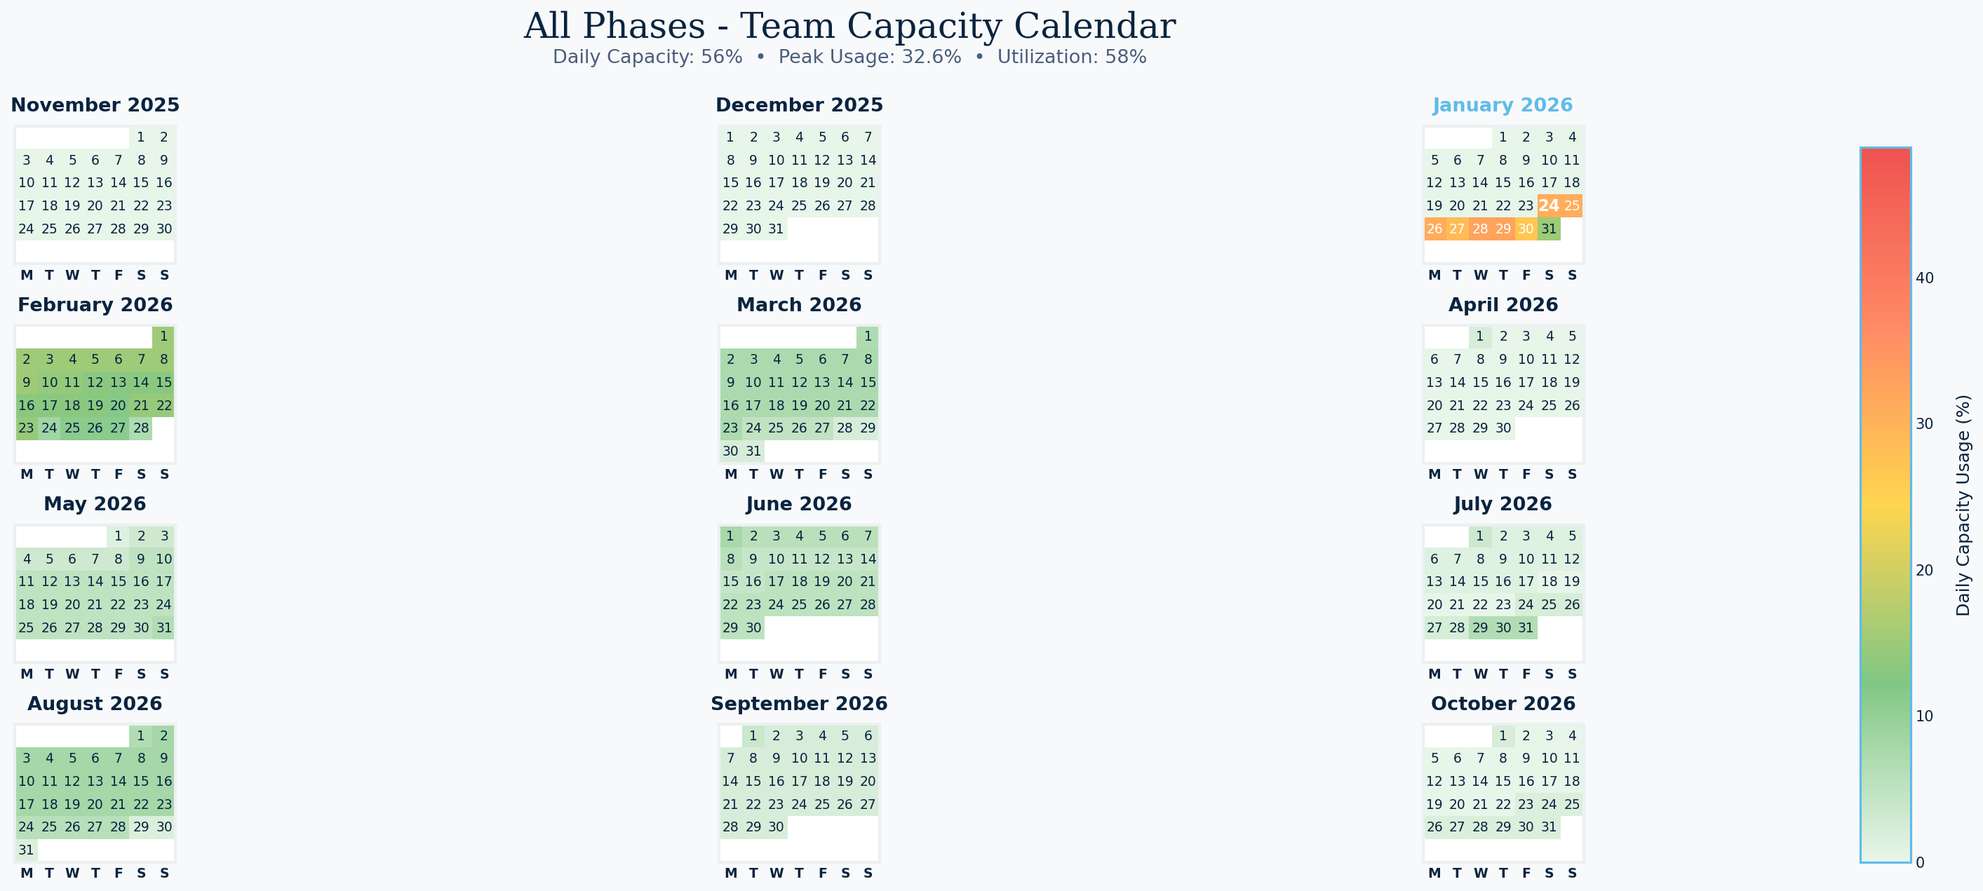
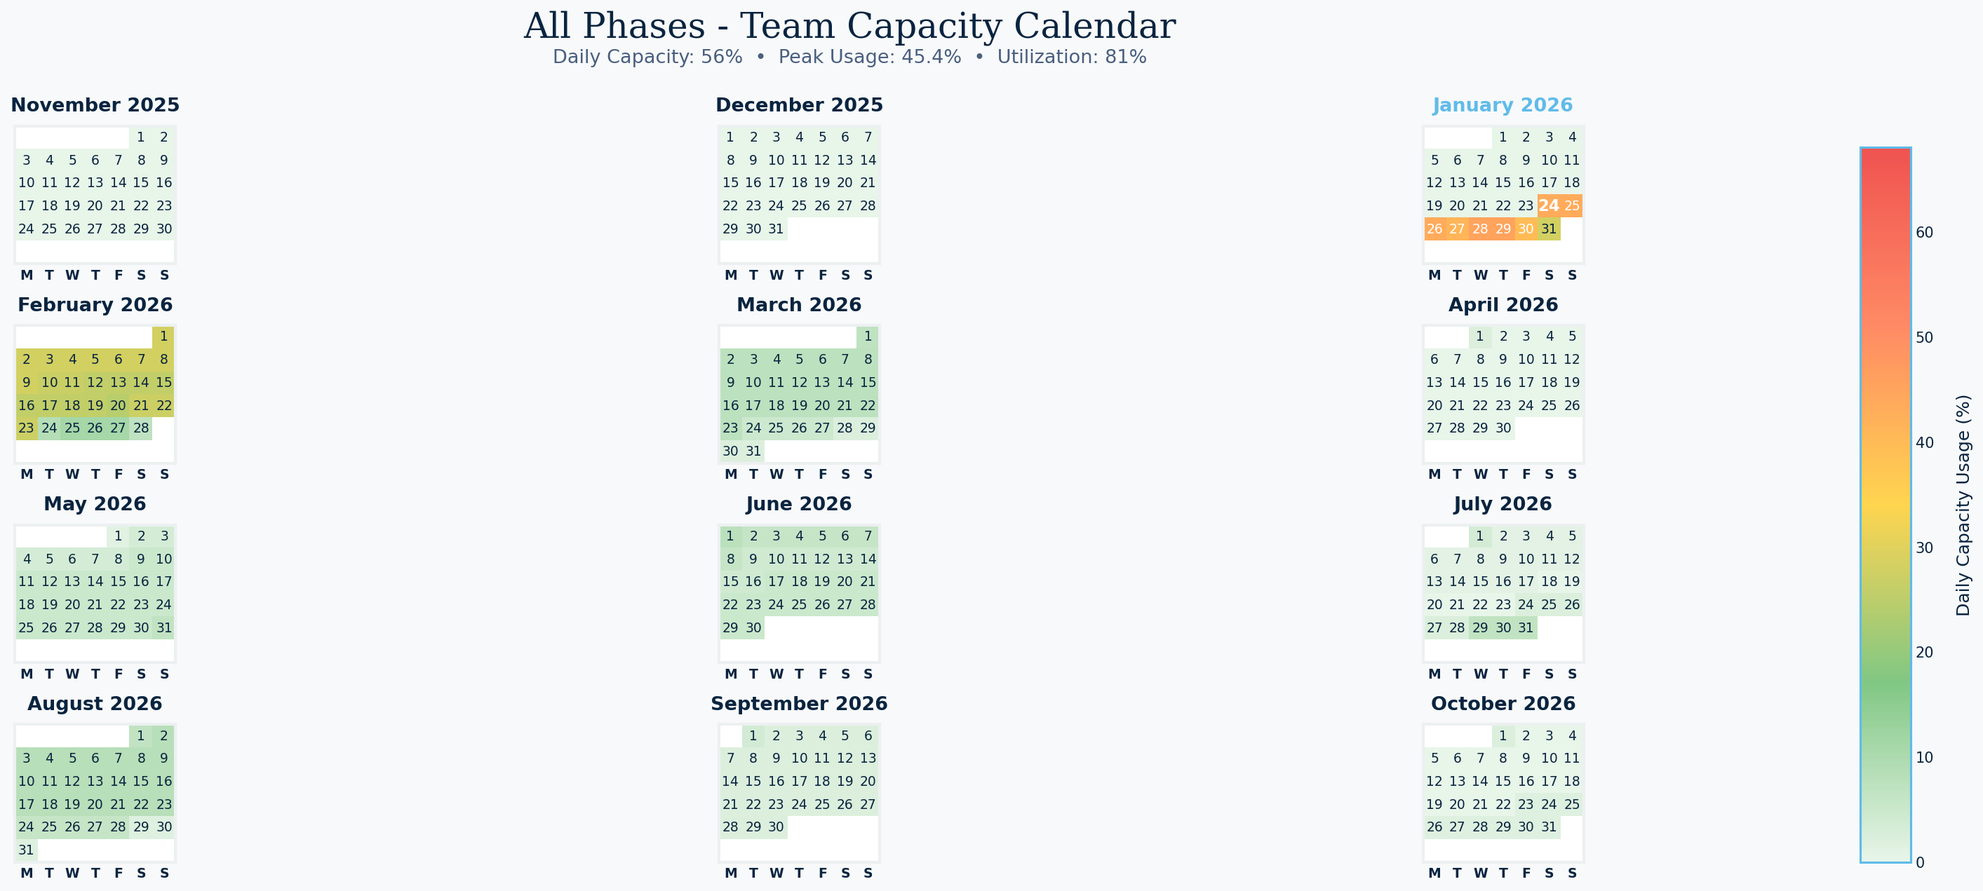
Update dashboard with latest data
🤖 Generated with [Claude Code](https://claude.com/claude-code)

Changed region(s): [[0.0, 0.3682, 0.0934, 0.5216], [0.7782, 0.2455, 0.8093, 0.2762]]

diff --git a/Reports/capacity_dashboard.html b/Reports/capacity_dashboard.html
@@ -978,7 +978,7 @@
         <div class="header">
             <h1>Perimeter Studio Dashboard</h1>
             <div class="subtitle">Video Production Capacity Tracking & Performance Metrics</div>
-            <div class="timestamp">Last Updated: January 24, 2026 at 02:15 PM</div>
+            <div class="timestamp">Last Updated: January 24, 2026 at 02:30 PM</div>
         </div>
 
         <div class="grid">
@@ -1014,10 +1014,10 @@
 
                     <div class="team-member">
                         <div class="team-member-name">Zach Welliver</div>
-                        <div class="team-member-capacity">70% / 50% capacity</div>
+                        <div class="team-member-capacity">134% / 50% capacity</div>
                         <div class="progress-bar">
                             <div class="progress-fill over-capacity" style="width: 100%">
-                                140%
+                                268%
                             </div>
                         </div>
                     </div>
@@ -1425,24 +1425,24 @@
                 <!-- Timeline bars -->
                 <div style="display: flex; gap: 3px; height: 60px; align-items: flex-end;">
     
-                    <div style="flex: 1; background: #fd7e14; height: 70.50510204081633%; border-radius: 4px 4px 0 0; position: relative; min-width: 8px; cursor: pointer;"
-                         title="Week 1 (2026-01-24): 54% capacity, 22 tasks">
+                    <div style="flex: 1; background: #fd7e14; height: 100%; border-radius: 4px 4px 0 0; position: relative; min-width: 8px; cursor: pointer;"
+                         title="Week 1 (2026-01-24): 77% capacity, 22 tasks">
                     </div>
         
-                    <div style="flex: 1; background: #28a745; height: 35.285714285714285%; border-radius: 4px 4px 0 0; position: relative; min-width: 8px; cursor: pointer;"
-                         title="Week 2 (2026-01-31): 27% capacity, 16 tasks">
+                    <div style="flex: 1; background: #ffc107; height: 65.0%; border-radius: 4px 4px 0 0; position: relative; min-width: 8px; cursor: pointer;"
+                         title="Week 2 (2026-01-31): 50% capacity, 16 tasks">
                     </div>
         
-                    <div style="flex: 1; background: #28a745; height: 33.29591836734694%; border-radius: 4px 4px 0 0; position: relative; min-width: 8px; cursor: pointer;"
-                         title="Week 3 (2026-02-07): 26% capacity, 16 tasks">
+                    <div style="flex: 1; background: #ffc107; height: 62.08163265306123%; border-radius: 4px 4px 0 0; position: relative; min-width: 8px; cursor: pointer;"
+                         title="Week 3 (2026-02-07): 48% capacity, 16 tasks">
                     </div>
         
-                    <div style="flex: 1; background: #28a745; height: 30.17857142857143%; border-radius: 4px 4px 0 0; position: relative; min-width: 8px; cursor: pointer;"
-                         title="Week 4 (2026-02-14): 23% capacity, 14 tasks">
+                    <div style="flex: 1; background: #ffc107; height: 56.64285714285714%; border-radius: 4px 4px 0 0; position: relative; min-width: 8px; cursor: pointer;"
+                         title="Week 4 (2026-02-14): 44% capacity, 13 tasks">
                     </div>
         
-                    <div style="flex: 1; background: #28a745; height: 28.056122448979593%; border-radius: 4px 4px 0 0; position: relative; min-width: 8px; cursor: pointer;"
-                         title="Week 5 (2026-02-21): 22% capacity, 15 tasks">
+                    <div style="flex: 1; background: #28a745; height: 39.39795918367348%; border-radius: 4px 4px 0 0; position: relative; min-width: 8px; cursor: pointer;"
+                         title="Week 5 (2026-02-21): 30% capacity, 14 tasks">
                     </div>
         
                     <div style="flex: 1; background: #28a745; height: 16.448979591836736%; border-radius: 4px 4px 0 0; position: relative; min-width: 8px; cursor: pointer;"
@@ -1609,154 +1609,154 @@
             </div>
             <div class="heatmap-grid">
     
-                <div style="background: #fd7e14; color: white; padding: 8px; border-radius: 4px; text-align: center; font-size: 11px;" title="2026-01-24: 55.0% capacity">
+                <div style="background: #fd7e14; color: white; padding: 8px; border-radius: 4px; text-align: center; font-size: 11px;" title="2026-01-24: 77.9% capacity">
                     <div style="font-weight: bold;">01/24</div>
-                    <div style="font-size: 9px; margin-top: 2px;">55%</div>
+                    <div style="font-size: 9px; margin-top: 2px;">78%</div>
                 </div>
         
-                <div style="background: #fd7e14; color: white; padding: 8px; border-radius: 4px; text-align: center; font-size: 11px;" title="2026-01-25: 55.0% capacity">
+                <div style="background: #fd7e14; color: white; padding: 8px; border-radius: 4px; text-align: center; font-size: 11px;" title="2026-01-25: 77.9% capacity">
                     <div style="font-weight: bold;">01/25</div>
-                    <div style="font-size: 9px; margin-top: 2px;">55%</div>
+                    <div style="font-size: 9px; margin-top: 2px;">78%</div>
                 </div>
         
-                <div style="background: #fd7e14; color: white; padding: 8px; border-radius: 4px; text-align: center; font-size: 11px;" title="2026-01-26: 55.0% capacity">
+                <div style="background: #fd7e14; color: white; padding: 8px; border-radius: 4px; text-align: center; font-size: 11px;" title="2026-01-26: 77.9% capacity">
                     <div style="font-weight: bold;">01/26</div>
-                    <div style="font-size: 9px; margin-top: 2px;">55%</div>
+                    <div style="font-size: 9px; margin-top: 2px;">78%</div>
                 </div>
         
-                <div style="background: #ffc107; color: white; padding: 8px; border-radius: 4px; text-align: center; font-size: 11px;" title="2026-01-27: 50.7% capacity">
+                <div style="background: #fd7e14; color: white; padding: 8px; border-radius: 4px; text-align: center; font-size: 11px;" title="2026-01-27: 73.6% capacity">
                     <div style="font-weight: bold;">01/27</div>
-                    <div style="font-size: 9px; margin-top: 2px;">51%</div>
+                    <div style="font-size: 9px; margin-top: 2px;">74%</div>
                 </div>
         
-                <div style="background: #fd7e14; color: white; padding: 8px; border-radius: 4px; text-align: center; font-size: 11px;" title="2026-01-28: 58.2% capacity">
+                <div style="background: #fd7e14; color: white; padding: 8px; border-radius: 4px; text-align: center; font-size: 11px;" title="2026-01-28: 81.1% capacity">
                     <div style="font-weight: bold;">01/28</div>
-                    <div style="font-size: 9px; margin-top: 2px;">58%</div>
+                    <div style="font-size: 9px; margin-top: 2px;">81%</div>
                 </div>
         
-                <div style="background: #fd7e14; color: white; padding: 8px; border-radius: 4px; text-align: center; font-size: 11px;" title="2026-01-29: 58.2% capacity">
+                <div style="background: #fd7e14; color: white; padding: 8px; border-radius: 4px; text-align: center; font-size: 11px;" title="2026-01-29: 81.1% capacity">
                     <div style="font-weight: bold;">01/29</div>
-                    <div style="font-size: 9px; margin-top: 2px;">58%</div>
+                    <div style="font-size: 9px; margin-top: 2px;">81%</div>
                 </div>
         
-                <div style="background: #ffc107; color: white; padding: 8px; border-radius: 4px; text-align: center; font-size: 11px;" title="2026-01-30: 47.5% capacity">
+                <div style="background: #ffc107; color: white; padding: 8px; border-radius: 4px; text-align: center; font-size: 11px;" title="2026-01-30: 70.4% capacity">
                     <div style="font-weight: bold;">01/30</div>
+                    <div style="font-size: 9px; margin-top: 2px;">70%</div>
+                </div>
+        
+                <div style="background: #ffc107; color: white; padding: 8px; border-radius: 4px; text-align: center; font-size: 11px;" title="2026-01-31: 50.0% capacity">
+                    <div style="font-weight: bold;">01/31</div>
+                    <div style="font-size: 9px; margin-top: 2px;">50%</div>
+                </div>
+        
+                <div style="background: #ffc107; color: white; padding: 8px; border-radius: 4px; text-align: center; font-size: 11px;" title="2026-02-01: 50.0% capacity">
+                    <div style="font-weight: bold;">02/01</div>
+                    <div style="font-size: 9px; margin-top: 2px;">50%</div>
+                </div>
+        
+                <div style="background: #ffc107; color: white; padding: 8px; border-radius: 4px; text-align: center; font-size: 11px;" title="2026-02-02: 50.0% capacity">
+                    <div style="font-weight: bold;">02/02</div>
+                    <div style="font-size: 9px; margin-top: 2px;">50%</div>
+                </div>
+        
+                <div style="background: #ffc107; color: white; padding: 8px; border-radius: 4px; text-align: center; font-size: 11px;" title="2026-02-03: 50.0% capacity">
+                    <div style="font-weight: bold;">02/03</div>
+                    <div style="font-size: 9px; margin-top: 2px;">50%</div>
+                </div>
+        
+                <div style="background: #ffc107; color: white; padding: 8px; border-radius: 4px; text-align: center; font-size: 11px;" title="2026-02-04: 50.0% capacity">
+                    <div style="font-weight: bold;">02/04</div>
+                    <div style="font-size: 9px; margin-top: 2px;">50%</div>
+                </div>
+        
+                <div style="background: #ffc107; color: white; padding: 8px; border-radius: 4px; text-align: center; font-size: 11px;" title="2026-02-05: 50.0% capacity">
+                    <div style="font-weight: bold;">02/05</div>
+                    <div style="font-size: 9px; margin-top: 2px;">50%</div>
+                </div>
+        
+                <div style="background: #ffc107; color: white; padding: 8px; border-radius: 4px; text-align: center; font-size: 11px;" title="2026-02-06: 50.0% capacity">
+                    <div style="font-weight: bold;">02/06</div>
+                    <div style="font-size: 9px; margin-top: 2px;">50%</div>
+                </div>
+        
+                <div style="background: #ffc107; color: white; padding: 8px; border-radius: 4px; text-align: center; font-size: 11px;" title="2026-02-07: 50.0% capacity">
+                    <div style="font-weight: bold;">02/07</div>
+                    <div style="font-size: 9px; margin-top: 2px;">50%</div>
+                </div>
+        
+                <div style="background: #ffc107; color: white; padding: 8px; border-radius: 4px; text-align: center; font-size: 11px;" title="2026-02-08: 50.0% capacity">
+                    <div style="font-weight: bold;">02/08</div>
+                    <div style="font-size: 9px; margin-top: 2px;">50%</div>
+                </div>
+        
+                <div style="background: #ffc107; color: white; padding: 8px; border-radius: 4px; text-align: center; font-size: 11px;" title="2026-02-09: 50.0% capacity">
+                    <div style="font-weight: bold;">02/09</div>
+                    <div style="font-size: 9px; margin-top: 2px;">50%</div>
+                </div>
+        
+                <div style="background: #ffc107; color: white; padding: 8px; border-radius: 4px; text-align: center; font-size: 11px;" title="2026-02-10: 48.2% capacity">
+                    <div style="font-weight: bold;">02/10</div>
                     <div style="font-size: 9px; margin-top: 2px;">48%</div>
                 </div>
         
-                <div style="background: #28a745; color: white; padding: 8px; border-radius: 4px; text-align: center; font-size: 11px;" title="2026-01-31: 27.1% capacity">
-                    <div style="font-weight: bold;">01/31</div>
-                    <div style="font-size: 9px; margin-top: 2px;">27%</div>
-                </div>
-        
-                <div style="background: #28a745; color: white; padding: 8px; border-radius: 4px; text-align: center; font-size: 11px;" title="2026-02-01: 27.1% capacity">
-                    <div style="font-weight: bold;">02/01</div>
-                    <div style="font-size: 9px; margin-top: 2px;">27%</div>
-                </div>
-        
-                <div style="background: #28a745; color: white; padding: 8px; border-radius: 4px; text-align: center; font-size: 11px;" title="2026-02-02: 27.1% capacity">
-                    <div style="font-weight: bold;">02/02</div>
-                    <div style="font-size: 9px; margin-top: 2px;">27%</div>
-                </div>
-        
-                <div style="background: #28a745; color: white; padding: 8px; border-radius: 4px; text-align: center; font-size: 11px;" title="2026-02-03: 27.1% capacity">
-                    <div style="font-weight: bold;">02/03</div>
-                    <div style="font-size: 9px; margin-top: 2px;">27%</div>
-                </div>
-        
-                <div style="background: #28a745; color: white; padding: 8px; border-radius: 4px; text-align: center; font-size: 11px;" title="2026-02-04: 27.1% capacity">
-                    <div style="font-weight: bold;">02/04</div>
-                    <div style="font-size: 9px; margin-top: 2px;">27%</div>
-                </div>
-        
-                <div style="background: #28a745; color: white; padding: 8px; border-radius: 4px; text-align: center; font-size: 11px;" title="2026-02-05: 27.1% capacity">
-                    <div style="font-weight: bold;">02/05</div>
-                    <div style="font-size: 9px; margin-top: 2px;">27%</div>
-                </div>
-        
-                <div style="background: #28a745; color: white; padding: 8px; border-radius: 4px; text-align: center; font-size: 11px;" title="2026-02-06: 27.1% capacity">
-                    <div style="font-weight: bold;">02/06</div>
-                    <div style="font-size: 9px; margin-top: 2px;">27%</div>
-                </div>
-        
-                <div style="background: #28a745; color: white; padding: 8px; border-radius: 4px; text-align: center; font-size: 11px;" title="2026-02-07: 27.1% capacity">
-                    <div style="font-weight: bold;">02/07</div>
-                    <div style="font-size: 9px; margin-top: 2px;">27%</div>
-                </div>
-        
-                <div style="background: #28a745; color: white; padding: 8px; border-radius: 4px; text-align: center; font-size: 11px;" title="2026-02-08: 27.1% capacity">
-                    <div style="font-weight: bold;">02/08</div>
-                    <div style="font-size: 9px; margin-top: 2px;">27%</div>
-                </div>
-        
-                <div style="background: #28a745; color: white; padding: 8px; border-radius: 4px; text-align: center; font-size: 11px;" title="2026-02-09: 27.1% capacity">
-                    <div style="font-weight: bold;">02/09</div>
-                    <div style="font-size: 9px; margin-top: 2px;">27%</div>
-                </div>
-        
-                <div style="background: #28a745; color: white; padding: 8px; border-radius: 4px; text-align: center; font-size: 11px;" title="2026-02-10: 25.4% capacity">
-                    <div style="font-weight: bold;">02/10</div>
-                    <div style="font-size: 9px; margin-top: 2px;">25%</div>
-                </div>
-        
-                <div style="background: #28a745; color: white; padding: 8px; border-radius: 4px; text-align: center; font-size: 11px;" title="2026-02-11: 25.4% capacity">
+                <div style="background: #ffc107; color: white; padding: 8px; border-radius: 4px; text-align: center; font-size: 11px;" title="2026-02-11: 48.2% capacity">
                     <div style="font-weight: bold;">02/11</div>
-                    <div style="font-size: 9px; margin-top: 2px;">25%</div>
+                    <div style="font-size: 9px; margin-top: 2px;">48%</div>
                 </div>
         
-                <div style="background: #28a745; color: white; padding: 8px; border-radius: 4px; text-align: center; font-size: 11px;" title="2026-02-12: 23.6% capacity">
+                <div style="background: #ffc107; color: white; padding: 8px; border-radius: 4px; text-align: center; font-size: 11px;" title="2026-02-12: 43.9% capacity">
                     <div style="font-weight: bold;">02/12</div>
-                    <div style="font-size: 9px; margin-top: 2px;">24%</div>
+                    <div style="font-size: 9px; margin-top: 2px;">44%</div>
                 </div>
         
-                <div style="background: #28a745; color: white; padding: 8px; border-radius: 4px; text-align: center; font-size: 11px;" title="2026-02-13: 23.6% capacity">
+                <div style="background: #ffc107; color: white; padding: 8px; border-radius: 4px; text-align: center; font-size: 11px;" title="2026-02-13: 43.9% capacity">
                     <div style="font-weight: bold;">02/13</div>
-                    <div style="font-size: 9px; margin-top: 2px;">24%</div>
+                    <div style="font-size: 9px; margin-top: 2px;">44%</div>
                 </div>
         
-                <div style="background: #28a745; color: white; padding: 8px; border-radius: 4px; text-align: center; font-size: 11px;" title="2026-02-14: 23.6% capacity">
+                <div style="background: #ffc107; color: white; padding: 8px; border-radius: 4px; text-align: center; font-size: 11px;" title="2026-02-14: 43.9% capacity">
                     <div style="font-weight: bold;">02/14</div>
-                    <div style="font-size: 9px; margin-top: 2px;">24%</div>
+                    <div style="font-size: 9px; margin-top: 2px;">44%</div>
                 </div>
         
-                <div style="background: #28a745; color: white; padding: 8px; border-radius: 4px; text-align: center; font-size: 11px;" title="2026-02-15: 23.6% capacity">
+                <div style="background: #ffc107; color: white; padding: 8px; border-radius: 4px; text-align: center; font-size: 11px;" title="2026-02-15: 43.9% capacity">
                     <div style="font-weight: bold;">02/15</div>
-                    <div style="font-size: 9px; margin-top: 2px;">24%</div>
+                    <div style="font-size: 9px; margin-top: 2px;">44%</div>
                 </div>
         
-                <div style="background: #28a745; color: white; padding: 8px; border-radius: 4px; text-align: center; font-size: 11px;" title="2026-02-16: 23.6% capacity">
+                <div style="background: #ffc107; color: white; padding: 8px; border-radius: 4px; text-align: center; font-size: 11px;" title="2026-02-16: 43.9% capacity">
                     <div style="font-weight: bold;">02/16</div>
-                    <div style="font-size: 9px; margin-top: 2px;">24%</div>
+                    <div style="font-size: 9px; margin-top: 2px;">44%</div>
                 </div>
         
-                <div style="background: #28a745; color: white; padding: 8px; border-radius: 4px; text-align: center; font-size: 11px;" title="2026-02-17: 23.6% capacity">
+                <div style="background: #ffc107; color: white; padding: 8px; border-radius: 4px; text-align: center; font-size: 11px;" title="2026-02-17: 43.9% capacity">
                     <div style="font-weight: bold;">02/17</div>
-                    <div style="font-size: 9px; margin-top: 2px;">24%</div>
+                    <div style="font-size: 9px; margin-top: 2px;">44%</div>
                 </div>
         
-                <div style="background: #28a745; color: white; padding: 8px; border-radius: 4px; text-align: center; font-size: 11px;" title="2026-02-18: 23.6% capacity">
+                <div style="background: #ffc107; color: white; padding: 8px; border-radius: 4px; text-align: center; font-size: 11px;" title="2026-02-18: 43.9% capacity">
                     <div style="font-weight: bold;">02/18</div>
-                    <div style="font-size: 9px; margin-top: 2px;">24%</div>
+                    <div style="font-size: 9px; margin-top: 2px;">44%</div>
                 </div>
         
-                <div style="background: #28a745; color: white; padding: 8px; border-radius: 4px; text-align: center; font-size: 11px;" title="2026-02-19: 23.6% capacity">
+                <div style="background: #ffc107; color: white; padding: 8px; border-radius: 4px; text-align: center; font-size: 11px;" title="2026-02-19: 43.9% capacity">
                     <div style="font-weight: bold;">02/19</div>
-                    <div style="font-size: 9px; margin-top: 2px;">24%</div>
+                    <div style="font-size: 9px; margin-top: 2px;">44%</div>
                 </div>
         
-                <div style="background: #28a745; color: white; padding: 8px; border-radius: 4px; text-align: center; font-size: 11px;" title="2026-02-20: 21.1% capacity">
+                <div style="background: #28a745; color: white; padding: 8px; border-radius: 4px; text-align: center; font-size: 11px;" title="2026-02-20: 41.4% capacity">
                     <div style="font-weight: bold;">02/20</div>
-                    <div style="font-size: 9px; margin-top: 2px;">21%</div>
+                    <div style="font-size: 9px; margin-top: 2px;">41%</div>
                 </div>
         
-                <div style="background: #28a745; color: white; padding: 8px; border-radius: 4px; text-align: center; font-size: 11px;" title="2026-02-21: 25.7% capacity">
+                <div style="background: #ffc107; color: white; padding: 8px; border-radius: 4px; text-align: center; font-size: 11px;" title="2026-02-21: 46.1% capacity">
                     <div style="font-weight: bold;">02/21</div>
-                    <div style="font-size: 9px; margin-top: 2px;">26%</div>
+                    <div style="font-size: 9px; margin-top: 2px;">46%</div>
                 </div>
         
-                <div style="background: #28a745; color: white; padding: 8px; border-radius: 4px; text-align: center; font-size: 11px;" title="2026-02-22: 25.7% capacity">
+                <div style="background: #ffc107; color: white; padding: 8px; border-radius: 4px; text-align: center; font-size: 11px;" title="2026-02-22: 46.1% capacity">
                     <div style="font-weight: bold;">02/22</div>
-                    <div style="font-size: 9px; margin-top: 2px;">26%</div>
+                    <div style="font-size: 9px; margin-top: 2px;">46%</div>
                 </div>
         
             </div>
@@ -2909,7 +2909,7 @@ Dec 1...
         document.addEventListener('DOMContentLoaded', () => {
             setTimeout(() => {
                 animateProgressRing('ringOnTime', 'ringOnTimeValue', 100);
-                animateProgressRing('ringUtilization', 'ringUtilizationValue', 66);
+                animateProgressRing('ringUtilization', 'ringUtilizationValue', 98);
                 animateProgressRing('ringProjects', 'ringProjectsValue', 37, true);
 
                 generateTimeline();
